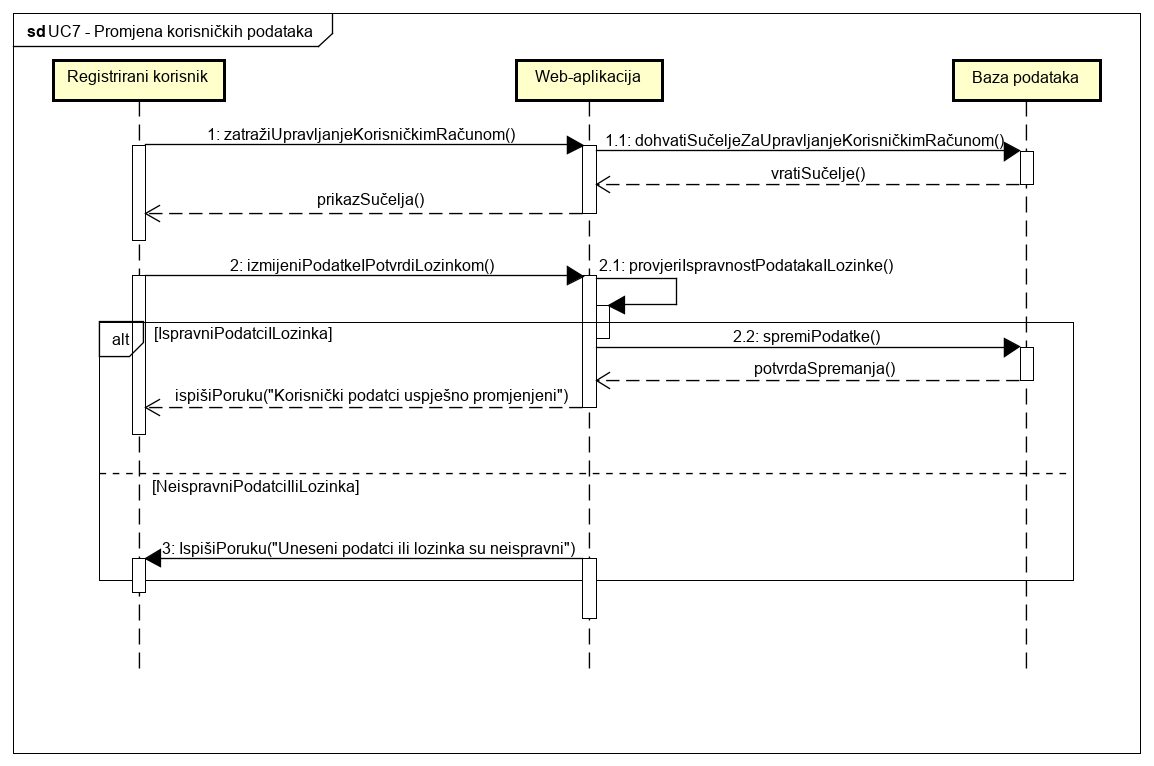
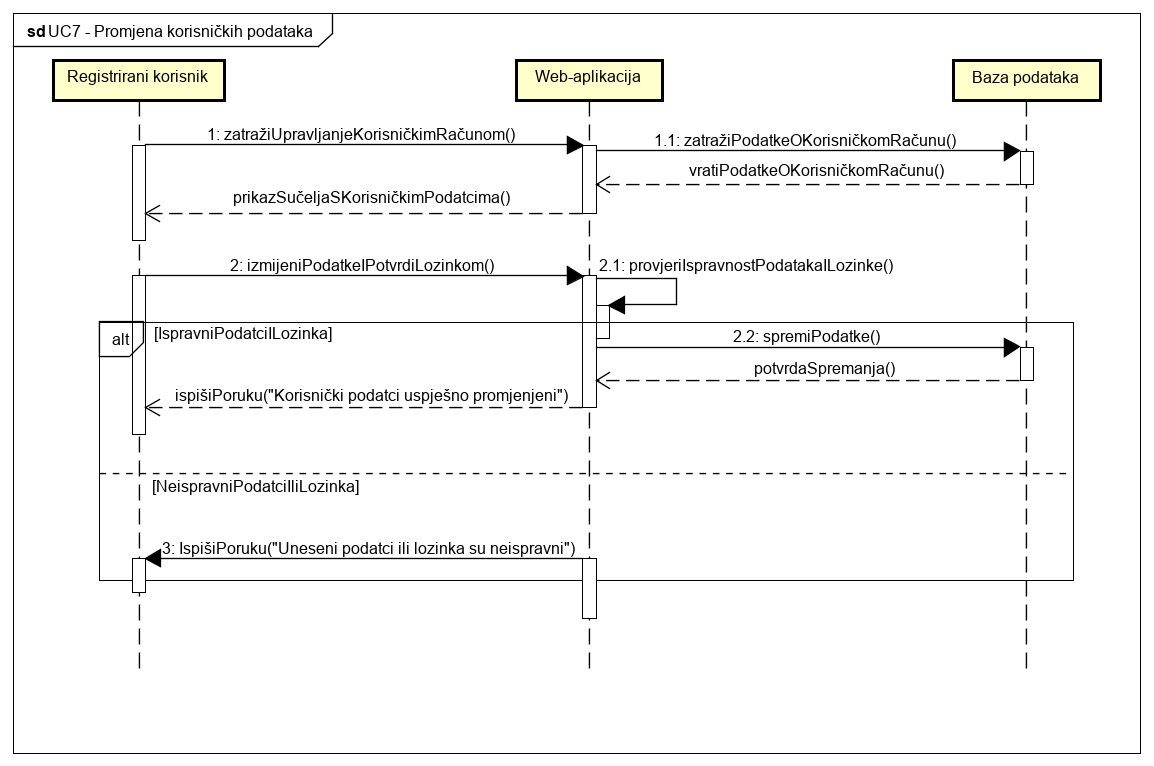
Update seq diagram 3 - UC7 - Changing User Data

Changed region(s): [[0.5615, 0.1802, 0.8735, 0.2402], [0.1872, 0.2402, 0.4367, 0.2702]]

diff --git a/dokumentacija/Specifikacija_programske_potpore.tex b/dokumentacija/Specifikacija_programske_potpore.tex
@@ -1032,7 +1032,7 @@
 
 \textbf{Obrazac uporabe UC7: Promjena korisničkih podataka}
 
-\noindent Korisnik odabire opciju upravljanja korisničkim računom, na što mu aplikacija dozvoljava promjenu te korisniku prikazuje sučelje za promjenu korisničkih podataka. Korisnik mijenja podatke i potom promjene potvrđuje unosom lozinke. Aplikacija provjerava točnost lozinke te ukoliko je ona ispravna i ako su novi podatci ispravni, novi podatci se spremaju u bazu podataka i korisniku se prikazuje poruka o uspješnoj promjeni podataka. Ukoliko je unesena lozinka neispravna ili ukoliko su novi podatci neispravni, korisniku se prikazuje poruka o neispravnosti unesene lozinke ili unesenih podataka.
+\noindent Korisnik odabire opciju upravljanja korisničkim računom, na što mu aplikacija dozvoljava promjenu, iz baze podataka dohvaća korisničke podatke te korisniku prikazuje sučelje za promjenu korisničkih podataka. Korisnik mijenja podatke i potom promjene potvrđuje unosom lozinke. Aplikacija provjerava točnost lozinke te ukoliko je ona ispravna i ako su novi podatci ispravni, novi podatci se spremaju u bazu podataka i korisniku se prikazuje poruka o uspješnoj promjeni podataka. Ukoliko je unesena lozinka neispravna ili ukoliko su novi podatci neispravni, korisniku se prikazuje poruka o neispravnosti unesene lozinke ili unesenih podataka.
 
 \begin{figure}[H]
 	\includegraphics[width=\linewidth]{dijagrami/seq-dia-UC7.png}
